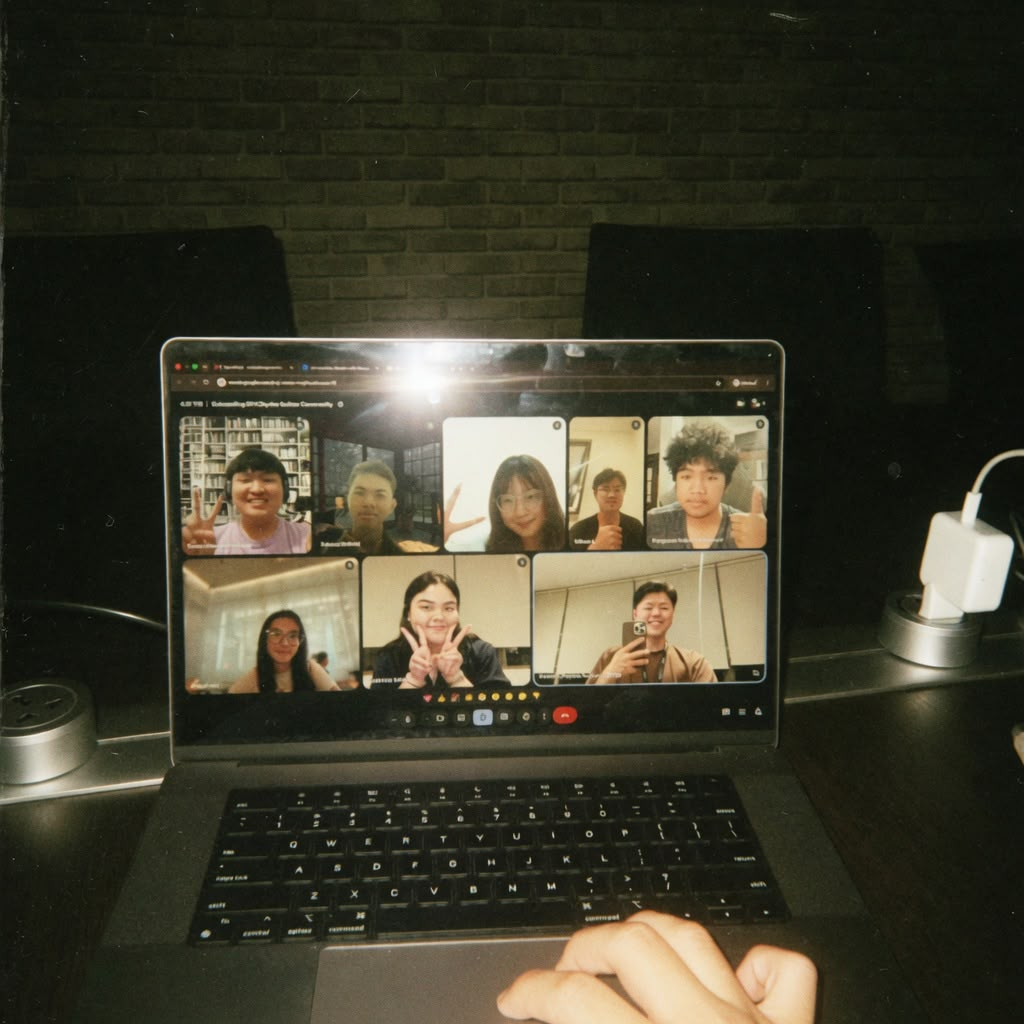
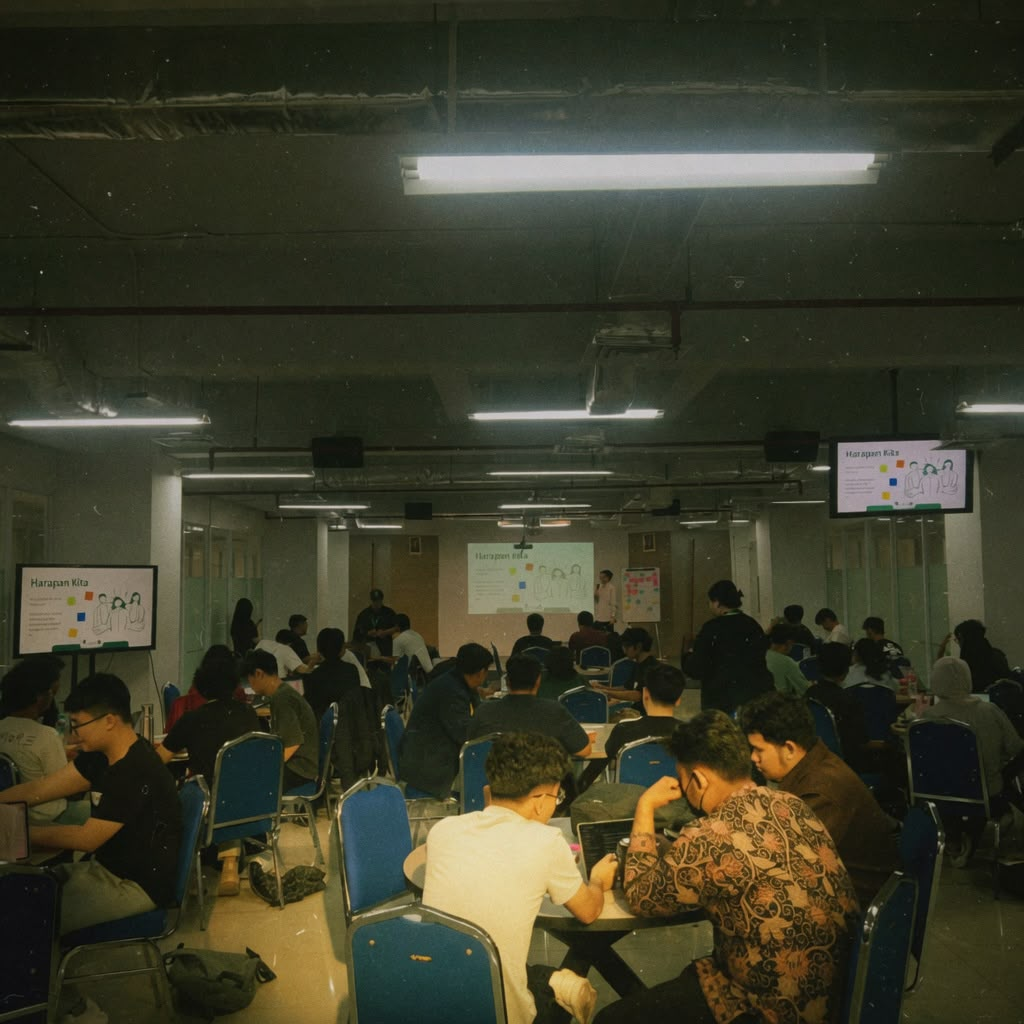
style: pan the Everyday scene down, and take its new photograph
Adds focusY: 0.68, the first use of the vertical half of the framing control.
The photograph was swapped again — a crowded hall now — and its subject sits
low in the frame, so centring cropped it away.

diff --git a/src/components/AsciiBackground.tsx b/src/components/AsciiBackground.tsx
@@ -48,7 +48,7 @@ export const SCENES: Scene[] = [
   { src: "/scene-concert.png" },
   { src: "/scene-first-date.png" },
   // Cropped in and biased left, onto the near group rather than the whole room.
-  { src: "/scene-everyday.jpg", zoom: 1.15, focusX: 0.4 },
+  { src: "/scene-everyday.jpg", zoom: 1.15, focusX: 0.4, focusY: 0.68 },
 ];
 
 export function AsciiBackground({
